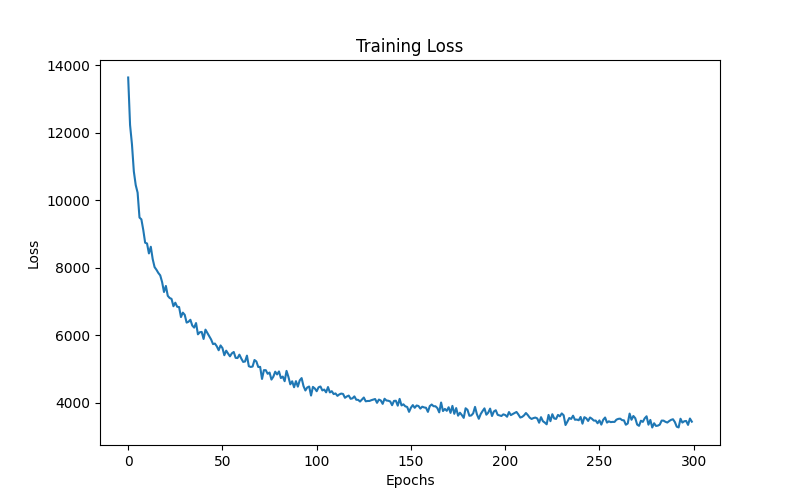
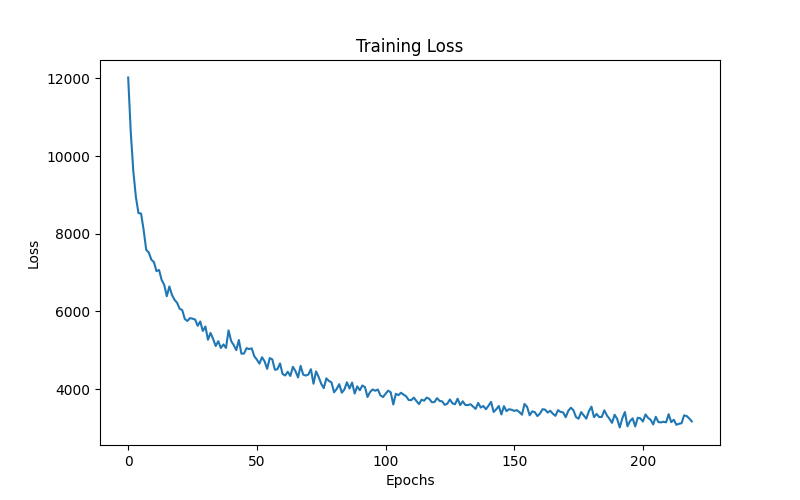
去掉GMU模块

diff --git a/mig_gt/layers/mirf_gt.py b/mig_gt/layers/mirf_gt.py
@@ -333,8 +333,6 @@ class MIGGT(nn.Module):
         self.input_feat_dropout = nn.Dropout(input_feat_drop_rate)
 
         self.ema_alpha = 0.1
-        self.gate = GatedMultimodalLayer()
-
 
       
 
@@ -393,14 +391,13 @@ class MIGGT(nn.Module):
 
       
         combined_h = None
-        combined_h = self.gate(t_h,v_h) + emb_h
-        # for i, h in enumerate([emb_h, t_h, v_h]):
-        #     if h is not None:
-        #         # print("combine index:", i)
-        #         if combined_h is None:
-        #             combined_h = h
-        #         else:
-        #             combined_h  = combined_h + h
+        for i, h in enumerate([emb_h, t_h, v_h]):
+            if h is not None:
+                # print("combine index:", i)
+                if combined_h is None:
+                    combined_h = h
+                else:
+                    combined_h  = combined_h + h
 
 
         combined_h = self.z_dropout(combined_h)
@@ -431,32 +428,4 @@ class MIGGT(nn.Module):
             return combined_h, emb_h, t_h, v_h, encoded_t, encoded_v, z_memory_h
         else:
             return combined_h
-
-
-class GatedMultimodalLayer(nn.Module):
-    def __init__(self,  size_out=64):
-        super(GatedMultimodalLayer, self).__init__()
-        # self.size_in1, self.size_in2, self.size_out = 64, 64, size_out
-
-        self.hidden1 = nn.Linear(64, size_out, bias=False)
-        self.hidden2 = nn.Linear(64, size_out, bias=False)
-        self.hidden_sigmoid = nn.Linear(128, 1, bias=False)
-        self.dropout = nn.Dropout(0.2)
-
-        # Activation functions
-        self.tanh_f = nn.Tanh()
-        self.sigmoid_f = nn.Sigmoid()
-
-    def forward(self, x1, x2):
-        h1 = self.tanh_f(self.hidden1(x1))
-        h2 = self.tanh_f(self.hidden1(x2))
-        h1 = self.dropout(h1)
-        h2 = self.dropout(h2)
-        x = torch.cat((h1, h2), dim=1)
-        z = self.sigmoid_f(self.hidden_sigmoid(x))
-
-        return z.view(z.size()[0], 1) * h1 + (1 - z).view(z.size()[0], 1) * h2
-
-            
-
-        
+  
